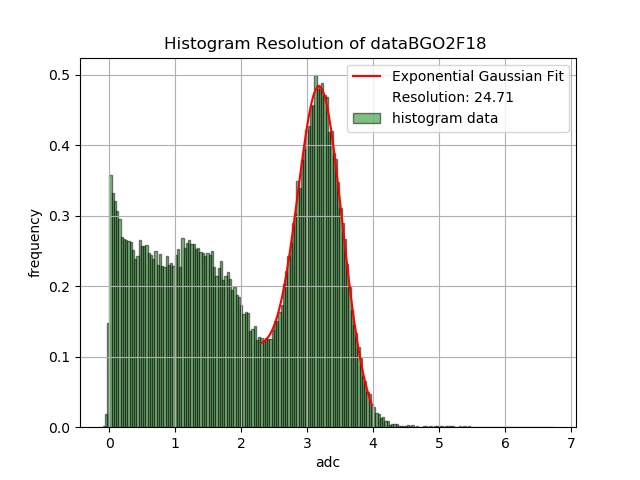
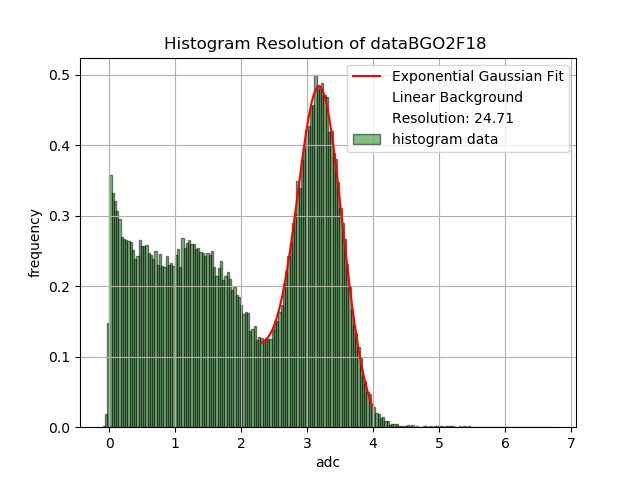
bellurie

Changed region(s): [[0.5312, 0.1875, 0.8125, 0.3125]]

diff --git a/BGORESOLUTION/createfiles.py b/BGORESOLUTION/createfiles.py
@@ -6,7 +6,7 @@ import urllib.request, zipfile, io
 import os
 import shutil
 import glob
-bins=200
+
 dataurl = 'https://docs.google.com/uc?export=download&id=183pCEe2KtC__kM9RO-hXJqFTc3qUGEsl'
 files=['BGO1.F18.csv', 'BGO2.F18.csv', 'BGO3.F18.csv',
        'LSO1.F18.csv', 'LSO2.F18.csv', 'LSO3.F18.csv',
@@ -17,16 +17,16 @@ for f in files:
         os.remove(f)
     except:
         pass
-crap1=glob.glob('data*.txt')
-for craps in crap1:
+old1=glob.glob('data*.txt')
+for oldfiles in old1:
     try:
-        remove(craps)
+        remove(oldfiles)
     except:
         pass
-crap2=glob.glob('histdata*.txt')
-for crapss in crap2:
+old2=glob.glob('histdata*.txt')
+for oldfiles2 in old2:
     try:
-        remove(crapss)
+        remove(oldfiles2)
     except:
         pass
 zipfile.ZipFile(io.BytesIO(urllib.request.urlopen(dataurl).read())).extractall()
@@ -34,9 +34,7 @@ zipfile.ZipFile(io.BytesIO(urllib.request.urlopen(dataurl).read())).extractall()
 for i in range(len(files)):
     f=files[i]
     data=np.loadtxt(f,unpack=True)
-    bin_heights, bin_borders, _ = plt.hist(data,bins,facecolor='g',ec='black',alpha=0.5,label='histogram')
 
-    bin_centers = bin_borders[:-1] + np.diff(bin_borders) / 2
     if i<6:
         name=f.replace('.F18.csv','F18')
         np.savetxt('data%s.txt'%(name),data)

diff --git a/BGORESOLUTION/resolutionmethod2.py b/BGORESOLUTION/resolutionmethod2.py
@@ -7,10 +7,10 @@ import matplotlib.pyplot as plt
 import glob
 bins=200
 #cancelliamo file vecchi
-crap1=glob.glob('hist*.png')
-for craps in crap1:
+old=glob.glob('hist*.png')
+for oldfile in old:
     try:
-        remove(craps)
+        remove(oldfile)
     except:
         pass
 #iniziamo il tutto caricando i dati
@@ -78,7 +78,7 @@ for i in range(len(filenames)):
             pass
     y=np.array(newheights)
     x=np.array(newcenters)
-#in base allo spettro fitto una gaussiana esponenzialmente corretta o una skewedù
+#in base allo spettro fitto una gaussiana esponenzialmente corretta o una skewed
     if i<=7 and i!=3 or i==9  or i==10:
         peak=ExponentialGaussianModel()
         text='Exponential Gaussian Fit'
@@ -107,6 +107,7 @@ for i in range(len(filenames)):
     plt.title('Histogram Resolution of %s '%f.replace('.txt',''))
     plt.xlabel('adc')
     plt.plot(x, out.best_fit, 'r-', label=text)
+    plt.plot([], [], ' ', label='Linear Background')
     plt.plot([], [], ' ', label='Resolution: %.2f'%resolution)
     plt.grid()
     plt.legend()
